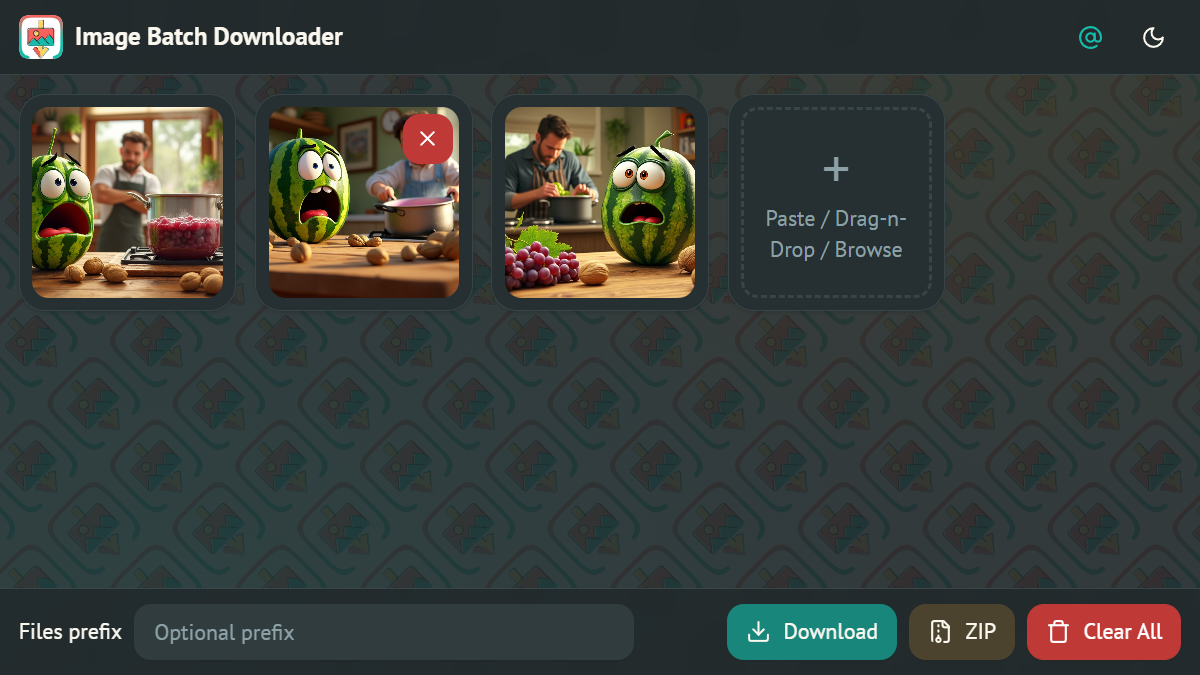
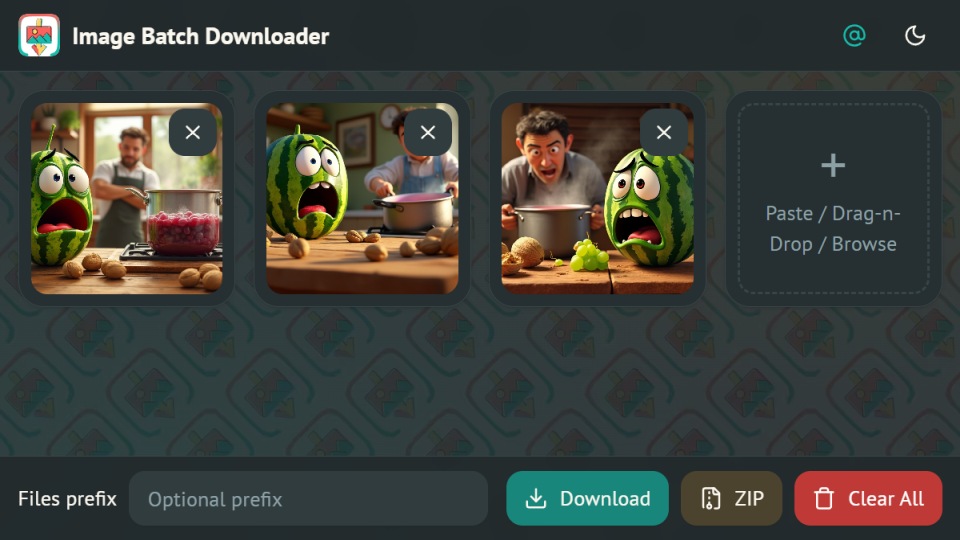
Always visible removal button, separate images download on mobile devices, system nav bar color fixed (#3)
This pull request introduces several updates to improve compatibility,
user experience, and documentation for the Image Batch Downloader
project. The most notable changes include mobile device support for
batch image downloads, updates to documentation and links for the latest
release, and minor UI and style enhancements.

**Mobile Compatibility and Download Improvements:**

* Added support for mobile Android and iOS devices to batch-download
images using the native share API, including conversion of data URLs to
files for sharing. This ensures a smoother experience for mobile users.
[[1]](diffhunk://#diff-378c8e64958248beb812a48aec8078a3e0e42ea68583b7192501bce18ceb9945R21-R31)
[[2]](diffhunk://#diff-378c8e64958248beb812a48aec8078a3e0e42ea68583b7192501bce18ceb9945R41-R57)

**Documentation and Release Updates:**

* Updated all references and download links in `README.md`,
`web/static/llms.txt`, and `web/src/routes/+page.svelte` to point to the
latest release version (`v1.0.1`).
[[1]](diffhunk://#diff-b335630551682c19a781afebcf4d07bf978fb1f8ac04c6bf87428ed5106870f5L18-R18)
[[2]](diffhunk://#diff-0d8f3fabf93da57c317e7b332f03fbddd96c06b7929483895f70a7baed7675beL34-R34)
[[3]](diffhunk://#diff-b4b804958d329004d66db7533a85c9dec3d4f599fd6064c53a3b9a5b923dfcbeL13-R13)
* Updated feature section images in `README.md` to use local assets
instead of remote GitHub attachments for improved reliability.

**UI and Style Enhancements:**
[…]

diff --git a/application/src/lib/file-utils.ts b/application/src/lib/file-utils.ts
@@ -18,6 +18,17 @@ export function generateTimestamp(): string {
         `-UTC${sign}${hh}${mm === '00' ? '' : ':' + mm}`;
 }
 
+function isMobileAndroidOrIOS(): boolean {
+    const ua = navigator.userAgent || '';
+    return /Android/i.test(ua) || /iPhone|iPad|iPod/i.test(ua);
+}
+
+async function dataUrlToFile(dataUrl: string, filename: string, type?: string): Promise<File> {
+    const res = await fetch(dataUrl);
+    const blob = await res.blob();
+    return new File([blob], filename, { type: type || blob.type });
+}
+
 export function downloadSingleImage(img: ImageData, idx: number, prefix: string) {
     const ext = img.file.type.split('/')[1];
     const a = document.createElement('a');
@@ -27,6 +38,23 @@ export function downloadSingleImage(img: ImageData, idx: number, prefix: string)
 }
 
 export async function downloadAllSeparate(images: ImageData[], prefix: string) {
+    if (isMobileAndroidOrIOS()) {
+        const nav = navigator;
+        if (!nav.share) {
+            return;
+        }
+        const files = await Promise.all(images.map(async (img, idx) => {
+            const ext = img.file.type.split('/')[1];
+            const filename = `${prefix ? prefix + '_' : ''}image_${idx + 1}${generateTimestamp()}.${ext}`;
+            return dataUrlToFile(img.dataUrl, filename, img.file.type);
+        }));
+        if (nav.canShare && !nav.canShare({ files })) {
+            return;
+        }
+        await nav.share({ files });
+        return;
+    }
+
     for (let i = 0; i < images.length; i++) {
         downloadSingleImage(images[i], i, prefix);
         await new Promise((r) => setTimeout(r, 300));

diff --git a/web/src/routes/+page.svelte b/web/src/routes/+page.svelte
@@ -10,7 +10,7 @@
     const title = "Image Batch Downloader";
     const subtitle = "Paste images & download them in batches. Fully local, single-file, no installation.";
     const onlineUrl = "https://image-batch-downloader.demetriuszhomir.com/app";
-    const downloadUrl = "https://github.com/demetriuszhomir/ImageBatchDownloader/releases/tag/v1.0.0";
+    const downloadUrl = "https://github.com/demetriuszhomir/ImageBatchDownloader/releases/tag/v1.0.1";
 
     // SEO canonical URLs
     const CANONICAL_URL = "https://image-batch-downloader.demetriuszhomir.com/";
@@ -42,7 +42,7 @@
     <meta name="keywords" content="image downloader, batch download images, paste images, zip images, offline, local" />
 </svelte:head>
 
-<main id="main" class="min-h-[100svh] w-full grid place-items-center overflow-y-auto">
+<main id="main" class="min-h-[100svh] w-full grid min-md:place-items-center overflow-y-auto">
     <LandingCard>
         <HeroHeader {logoUrl} siteUrl={siteUrl} {title} {subtitle} />
 

diff --git a/application/src/lib/components/ui/button/button.svelte b/application/src/lib/components/ui/button/button.svelte
@@ -11,7 +11,7 @@
 				destructive:
 					"bg-destructive shadow-xs hover:bg-destructive/90 focus-visible:ring-destructive/20 dark:focus-visible:ring-destructive/40 text-white",
 				outline:
-					"bg-background shadow-xs hover:bg-input/50 hover:text-accent-foreground dark:bg-input/30 dark:border-input dark:hover:bg-input/50 border",
+					"bg-background shadow-xs hover:bg-input/90 hover:text-accent-foreground dark:bg-input dark:border-input dark:hover:bg-input/90 border",
 				secondary: "bg-secondary text-secondary-foreground shadow-xs hover:bg-secondary/80",
 				ghost: "hover:bg-accent hover:text-accent-foreground",
 				link: "text-[var(--link)] underline-offset-4 hover:underline",

diff --git a/web/src/lib/components/landing/HeroHeader.svelte b/web/src/lib/components/landing/HeroHeader.svelte
@@ -18,7 +18,7 @@
         <div class="flex items-center gap-3">
             <!-- svelte-ignore a11y_img_redundant_alt -->
             <img src={logoUrl} alt="Image Batch Downloader logo" class="h-9 w-9" />
-            <h1 class="text-xl sm:text-2xl md:text-3xl font-semibold tracking-tight leading-tight">{title}</h1>
+            <h1 class="text-xl md:text-3xl font-semibold tracking-tight leading-tight">{title}</h1>
         </div>
 
         <a href={siteUrl} target="_blank" rel="noreferrer" class="shrink-0">

diff --git a/application/src/lib/components/ImageCard.svelte b/application/src/lib/components/ImageCard.svelte
@@ -14,9 +14,9 @@
         <img src={img.dataUrl} alt="preview" class="object-cover w-full h-full rounded-md" />
     </AspectRatio>
     <Button
-        variant="destructive"
+        variant="outline"
         size="icon"
-        class="absolute top-2 right-2 m-1 w-8 h-8 min-w-0 min-h-0 opacity-0 group-hover:opacity-100 transition-opacity"
+        class="absolute top-2 right-2 m-1 w-8 h-8 min-w-0 min-h-0"
         aria-label="Remove"
         onclick={() => onRemove(img.id)}
     >

diff --git a/application/src/app.css b/application/src/app.css
@@ -114,6 +114,7 @@
 
     html {
         background-image: url('$lib/bg.avif');
+        background-color: var(--background);
         background-attachment: fixed;
         background-position: 0;
         background-repeat: repeat;

diff --git a/README.md b/README.md
@@ -15,7 +15,7 @@ Fully local, single-file, no installation required.
 
 **See the [Releases](https://github.com/demetriuszhomir/ImageBatchDownloader/releases) to download the latest builds.**
 
-- 🌟 **v1.0.0**: https://github.com/demetriuszhomir/ImageBatchDownloader/releases/tag/v1.0.0
+- 🌟 **v1.0.1**: https://github.com/demetriuszhomir/ImageBatchDownloader/releases/tag/v1.0.1
 
 <details>
 <summary>
@@ -31,8 +31,8 @@ The prototype is feature-complete and created entirely using GitHub Copilot.
 ## Features
 
 <div align="center">
-    <img src="https://github.com/user-attachments/assets/bd190e7e-b9f2-4800-9b83-b01cfe5422d0#gh-light-mode-only" width="640" />
-    <img src="https://github.com/user-attachments/assets/8a5dd912-4aff-4ec6-afb9-60264f26fddf#gh-dark-mode-only" width="640" />
+    <img src="web/src/lib/app-light.png#gh-light-mode-only" width="640" />
+    <img src="web/src/lib/app-dark.png#gh-dark-mode-only" width="640" />
 </div>
 
 - **🖼 Easy Image Collection**
